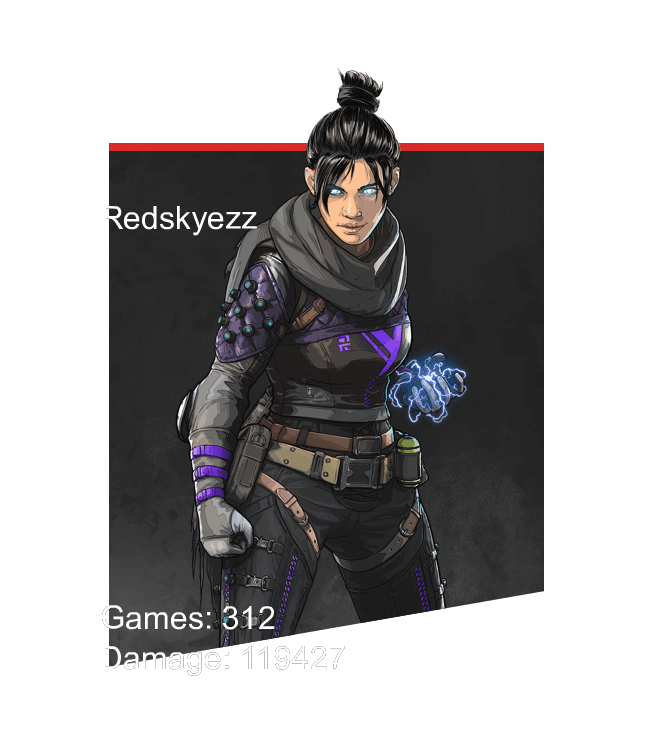
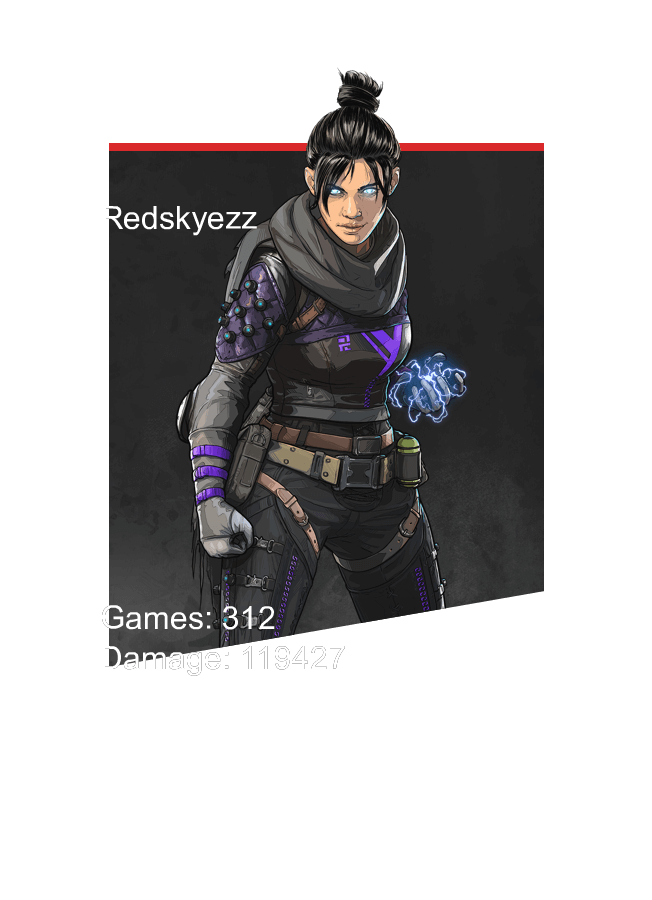
revert

Changed region(s): [[0.1534, 0.0604, 0.8589, 0.9355]]

diff --git a/server.js b/server.js
@@ -18,7 +18,7 @@ function loadImageForSelectedCharacter(url, games, dmg, ad, name) {
     Jimp.read(url)
       .then(function(image) {
         loadedImage = image;
-        image.crop(0, 50, 652, 729);
+        // image.crop(0, 30, 652, 729);
         return Jimp.loadFont(Jimp.FONT_SANS_32_WHITE);
       })
       .then(function(font) {
